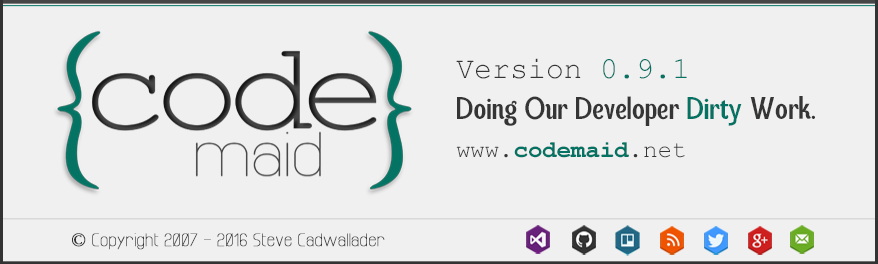
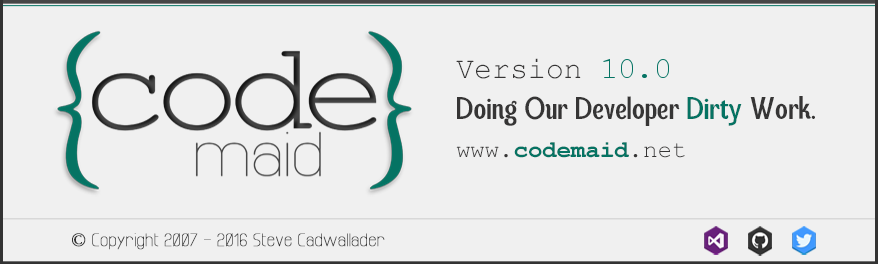
Update about.png for v10.0 and updated support site links.

Changed region(s): [[0.5843, 0.8485, 0.9533, 0.9697], [0.6765, 0.2121, 0.7995, 0.303]]

diff --git a/CodeMaid/UI/Dialogs/About/AboutWindow.xaml b/CodeMaid/UI/Dialogs/About/AboutWindow.xaml
@@ -66,25 +66,13 @@
         <Button Canvas.Left="456" Canvas.Top="142" Height="16" Width="229" Style="{StaticResource underlineLinkButton}"
                 Click="OnWebsiteLinkClick" ToolTip="Launch CodeMaid's website" />
 
-        <Button Canvas.Left="526" Canvas.Top="226" Height="28" Width="24" Style="{StaticResource iconLinkButton}"
+        <Button Canvas.Left="704" Canvas.Top="226" Height="28" Width="24" Style="{StaticResource iconLinkButton}"
                 Click="OnVisualStudioGalleryLinkClick" ToolTip="Download, Reviews - Visual Studio Gallery" />
 
-        <Button Canvas.Left="572" Canvas.Top="226" Height="28" Width="24" Style="{StaticResource iconLinkButton}"
-                Click="OnGitHubLinkClick" ToolTip="Source code, Bugs - GitHub" />
-
-        <Button Canvas.Left="615" Canvas.Top="226" Height="28" Width="24" Style="{StaticResource iconLinkButton}"
-                Click="OnTrelloLinkClick" ToolTip="Feature backlog - Trello" />
-
-        <Button Canvas.Left="660" Canvas.Top="226" Height="28" Width="24" Style="{StaticResource iconLinkButton}"
-                Click="OnRSSLinkClick" ToolTip="Blog RSS" />
-
-        <Button Canvas.Left="704" Canvas.Top="226" Height="28" Width="24" Style="{StaticResource iconLinkButton}"
-                Click="OnTwitterLinkClick" ToolTip="Twitter" />
-
         <Button Canvas.Left="748" Canvas.Top="226" Height="28" Width="24" Style="{StaticResource iconLinkButton}"
-                Click="OnGooglePlusLinkClick" ToolTip="Google+" />
+                Click="OnGitHubLinkClick" ToolTip="Code, Issues - GitHub" />
 
-        <Button Canvas.Left="790" Canvas.Top="226" Height="28" Width="24" Style="{StaticResource iconLinkButton}"
-                Click="OnEmailLinkClick" ToolTip="E-mail" />
+        <Button Canvas.Left="792" Canvas.Top="226" Height="28" Width="24" Style="{StaticResource iconLinkButton}"
+                Click="OnTwitterLinkClick" ToolTip="Twitter" />
     </Canvas>
 </platformUI:DialogWindow>

diff --git a/CodeMaid/UI/Dialogs/About/AboutWindow.xaml.cs b/CodeMaid/UI/Dialogs/About/AboutWindow.xaml.cs
@@ -56,7 +56,7 @@ namespace SteveCadwallader.CodeMaid.UI.Dialogs.About
         /// </param>
         private void OnWebsiteLinkClick(object sender, RoutedEventArgs e)
         {
-            LaunchLink(@"http://codemaid.net/");
+            LaunchLink(@"http://www.codemaid.net/");
         }
 
         /// <summary>
@@ -68,7 +68,7 @@ namespace SteveCadwallader.CodeMaid.UI.Dialogs.About
         /// </param>
         private void OnVisualStudioGalleryLinkClick(object sender, RoutedEventArgs e)
         {
-            LaunchLink(@"http://visualstudiogallery.msdn.microsoft.com/76293c4d-8c16-4f4a-aee6-21f83a571496");
+            LaunchLink(@"https://visualstudiogallery.msdn.microsoft.com/76293c4d-8c16-4f4a-aee6-21f83a571496");
         }
 
         /// <summary>
@@ -84,30 +84,6 @@ namespace SteveCadwallader.CodeMaid.UI.Dialogs.About
         }
 
         /// <summary>
-        /// Called when the Trello link is clicked.
-        /// </summary>
-        /// <param name="sender">The sender.</param>
-        /// <param name="e">
-        /// The <see cref="System.Windows.RoutedEventArgs" /> instance containing the event data.
-        /// </param>
-        private void OnTrelloLinkClick(object sender, RoutedEventArgs e)
-        {
-            LaunchLink(@"https://trello.com/b/VVxVhbQv/backlog");
-        }
-
-        /// <summary>
-        /// Called when the RSS link is clicked.
-        /// </summary>
-        /// <param name="sender">The sender.</param>
-        /// <param name="e">
-        /// The <see cref="System.Windows.RoutedEventArgs" /> instance containing the event data.
-        /// </param>
-        private void OnRSSLinkClick(object sender, RoutedEventArgs e)
-        {
-            LaunchLink(@"http://codemaid.net/feed/");
-        }
-
-        /// <summary>
         /// Called when the Twitter link is clicked.
         /// </summary>
         /// <param name="sender">The sender.</param>
@@ -116,31 +92,7 @@ namespace SteveCadwallader.CodeMaid.UI.Dialogs.About
         /// </param>
         private void OnTwitterLinkClick(object sender, RoutedEventArgs e)
         {
-            LaunchLink(@"http://twitter.com/codemaid/");
-        }
-
-        /// <summary>
-        /// Called when the Google+ link is clicked.
-        /// </summary>
-        /// <param name="sender">The sender.</param>
-        /// <param name="e">
-        /// The <see cref="System.Windows.RoutedEventArgs" /> instance containing the event data.
-        /// </param>
-        private void OnGooglePlusLinkClick(object sender, RoutedEventArgs e)
-        {
-            LaunchLink(@"https://plus.google.com/+CodemaidNet/");
-        }
-
-        /// <summary>
-        /// Called when the Email link is clicked.
-        /// </summary>
-        /// <param name="sender">The sender.</param>
-        /// <param name="e">
-        /// The <see cref="System.Windows.RoutedEventArgs" /> instance containing the event data.
-        /// </param>
-        private void OnEmailLinkClick(object sender, RoutedEventArgs e)
-        {
-            LaunchLink(@"mailto:codemaid@gmail.com");
+            LaunchLink(@"https://twitter.com/codemaid/");
         }
 
         #endregion Event Handlers
